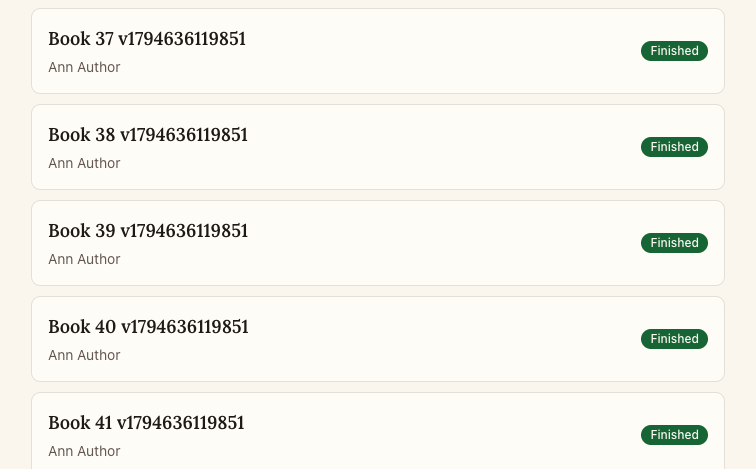
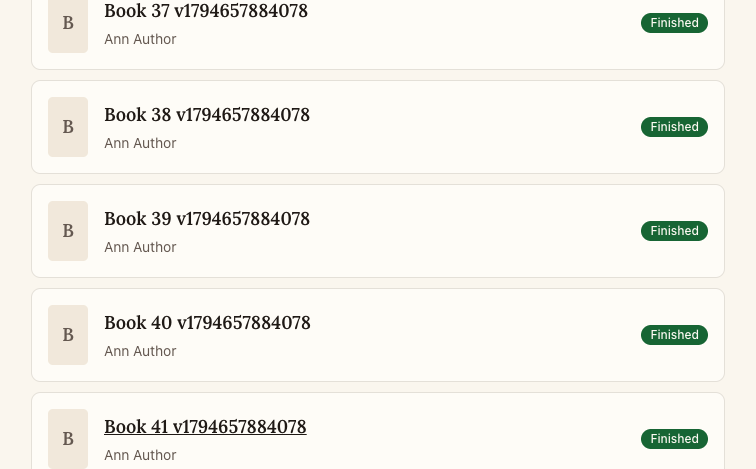
feat(F085): The list loads 20 books at a time with 'Load more'

diff --git a/harness/evidence/F085.md b/harness/evidence/F085.md
@@ -1,21 +1,20 @@
 <!-- written by harness/hooks/verifier-evidence.py; do not edit -->
-- Verified at: 2026-11-14T13:05:55 on 4e202fc plus working tree
-- Verifier run: a59a28b1fbe2c85a4
+- Verified at: 2026-11-14T19:08:00 on e3a231a plus working tree
+- Verifier run: a5007876c159d793d
 
 VERDICT: PASS
 FEATURE: F085
 CRITERIA:
-- CRITERION 1: PASS — On a new account with 45 imported books, /books?sort=title showed 20 books and a "Load more" link. Clicking it showed 40 (limit=40) and the link was still there. Clicking again showed all 45, with no duplicates, from Book 01 to Book 45, and the link was gone.
-- CRITERION 2: PASS — I set every filter through the UI: Reading tab, Title A to Z, shelf Beach, tag sun and a search. The page showed 20 books with tab counts All (25), Want to read (0), Reading (25), Finished (0). After Load more the URL still had status, q, sort, shelf and tag, plus limit=40. The page then showed all 25 matching books with no Load more link. The tab counts did not change, and all four controls still showed their selected values. With no filters, the counts stayed at All (45)/5/30/10 on every page.
-- CRITERION 3: PASS — I paged to 40 books, then added a book through the Add book form. I then reopened the list at limit=40, by going back twice in the browser and reloading, and by direct URL with both newest and title sort. Loading more showed 46 books with 46 unique titles, the new book appeared exactly once, and the Load more link went away.
+- CRITERION 1: PASS — With 45 imported books on /books?sort=title, the list showed 20. Clicking 'Load more' showed 40 (URL limit=40), and clicking again showed 45 different books with no 'Load more' link left.
+- CRITERION 2: PASS — I set Reading tab, title sort, shelf "Club", tag "classic" and a search through the UI, then clicked 'Load more'. The URL kept status, q, sort, shelf and tag (only limit=40 was added), the list grew from 20 to all 23 matching books, the controls still showed the same choices, and the tabs read "All (25) | Want to read (2) | Reading (23) | Finished (0)" both before and after.
+- CRITERION 3: PASS — Starting at /books?limit=40, I added "Book 00" through the Add book form. Paging back in (20, then 40, then 46) showed it exactly once with 46 unique books, and it still showed once after using the back button and after a reload.
 EVIDENCE:
-- Step 1: counts were 20 (Load more shown), then 40 (Load more shown, limit=40), then 45 (45 unique titles, no Load more, limit=60). (/Users/huynguyen/Desktop/harness-web-trial-loop/F085/harness/evidence/F085/step-01.png)
-- Step 2: the URL before Load more was /books?status=reading&q=v1794636119851&sort=title&shelf=327df4a1-...&tag=sun and showed 20 books. After the click it was the same URL plus &limit=40 and showed 25 books (Book 06 to Book 30) with no Load more. Tabs read ["All (25)","Want to read (0)","Reading (25)","Finished (0)"] both before and after. The controls read Shelf=Beach, Tag=sun, Sort=Title A to Z, search=v1794636119851, and the current tab was Reading. (/Users/huynguyen/Desktop/harness-web-trial-loop/F085/harness/evidence/F085/step-02.png)
-- Step 3: newest sort with limit=40 showed 40 books before the add. After the add and a reload of limit=40, it showed 40 books, Book 00 first, with no duplicates. Load more then went to limit=60 and showed 46 unique books, Book 00 once, no Load more. Title sort gave the same result: 40 at limit=40, then 46 unique at limit=60. Tabs read All (46), Want to read (6). (/Users/huynguyen/Desktop/harness-web-trial-loop/F085/harness/evidence/F085/step-03.png, /Users/huynguyen/Desktop/harness-web-trial-loop/F085/harness/evidence/F085/step-03-mobile.png)
-- Mobile at 375x812: Load more sits centered below the list and the page does not scroll sideways (scrollWidth 375).
-- Edge cases: limit values of empty, abc, -20, 0, 7, 25, 99999 and a repeated limit=40&limit=60 all returned 200 with 20 books and a Load more link to limit=40. limit=1000 returned 200 and showed every book with no Load more.
-- Errors: none in the browser console during the flow (only the React DevTools and HMR info lines), and no errors or warnings in the dev server log.
-- Tests: /Users/huynguyen/Desktop/harness-web-trial-loop/F085/e2e/F085-load-more.spec.ts has one test for each criterion. /Users/huynguyen/Desktop/harness-web-trial-loop/F085/lib/books.test.ts adds unit tests for parseLimit, pageBooks and booksHref with limit. I did not run either suite.
+- Setup: signed up a new account at http://localhost:43200 and imported 45 books by CSV (5 Want to read, 30 Reading, 10 Finished; titles "Book NN v1794657884078"). Then, on each book's page, I tagged 25 of them "classic" and put them on a new shelf "Club".
+- Step 1: 20 books with Load more pointing to /books?sort=title&limit=40; then 40 books with the link pointing to limit=60; then 45 books (45 unique) and 0 Load more links. The page stayed in place on click (scroll=false; scrollY 2432 after the first click). (harness/evidence/F085/step-01.png)
+- Step 2: URL before: ?status=reading&q=v1794657884078&sort=title&shelf=4445...&tag=classic, showing 20 books. After the click it was the same URL plus &limit=40, showing books 06 to 28 (23), with Reading still marked as the current tab, the search box value kept, and the combos showing "Club", "classic", "Title A to Z". Tab counts were identical before and after. (harness/evidence/F085/step-02.png)
+- Step 3: I used the default newest sort. Before adding: limit=40 showed 40 books and All (45). After saving "Book 00 ...": /books showed 20 books with the new one present once and All (46). Load more gave 40 (1 copy), then 46 (46 unique, 1 copy, no button). After back and after reload: 40 books with 1 copy. (harness/evidence/F085/step-03.png, harness/evidence/F085/step-03-mobile.png: at 375px the 'Load more' button is centred below the list with no horizontal overflow, scrollWidth 375)
+- Edge cases: limit=abc, 0, -20, 25, 99999, empty, and a repeated limit=40&limit=60 all returned 200 and fell back to 20 books, with Load more pointing to limit=40. Tab links built while paged in (limit=40) drop the limit and keep the sort, e.g. /books?status=reading&sort=title.
+- Console: no errors or warnings across the whole flow.
+- Tests: e2e/F085-load-more.spec.ts covers 20/40/45 and button removal, keeping tab/search/sort plus counts, and a book added while paged in showing once. lib/books.test.ts unit-tests parseLimit and pageBooks.
 PROBLEMS:
-- (Not blocking) The e2e spec checks that tab, search and sort are kept when paging, but not the shelf and tag filters that criterion 2 also names. I checked shelf and tag by hand only, so nothing would catch a regression there.
-- (Not blocking) Saving a new book redirects to /books, which drops the current paging, so the user goes back to the first 20.
+- (none blocking) Note: the e2e spec checks that paging keeps tab, search and sort, but not shelf or tag. I verified shelf and tag by hand above (the URL builder carries them).

diff --git a/harness/log/F085.md b/harness/log/F085.md
@@ -1,0 +1,4 @@
+## 2026-11-14 19:10 · passing
+- Did: Rebased F085 onto main (kit 5.45.7) by cherry-picking 5f8da4d; merged paging with main's cover signing in app/books/page.tsx and kept both test blocks in lib/books.test.ts.
+- Verified by: check.sh alone (exit 0, F085 e2e 3/3), then init.sh and the verifier (PASS, 3 criteria, evidence in harness/evidence/F085.md).
+- Next session should know: Saving a new book redirects to /books and resets paging. The e2e covers tab, search and sort while paging, but not shelf or tag.
